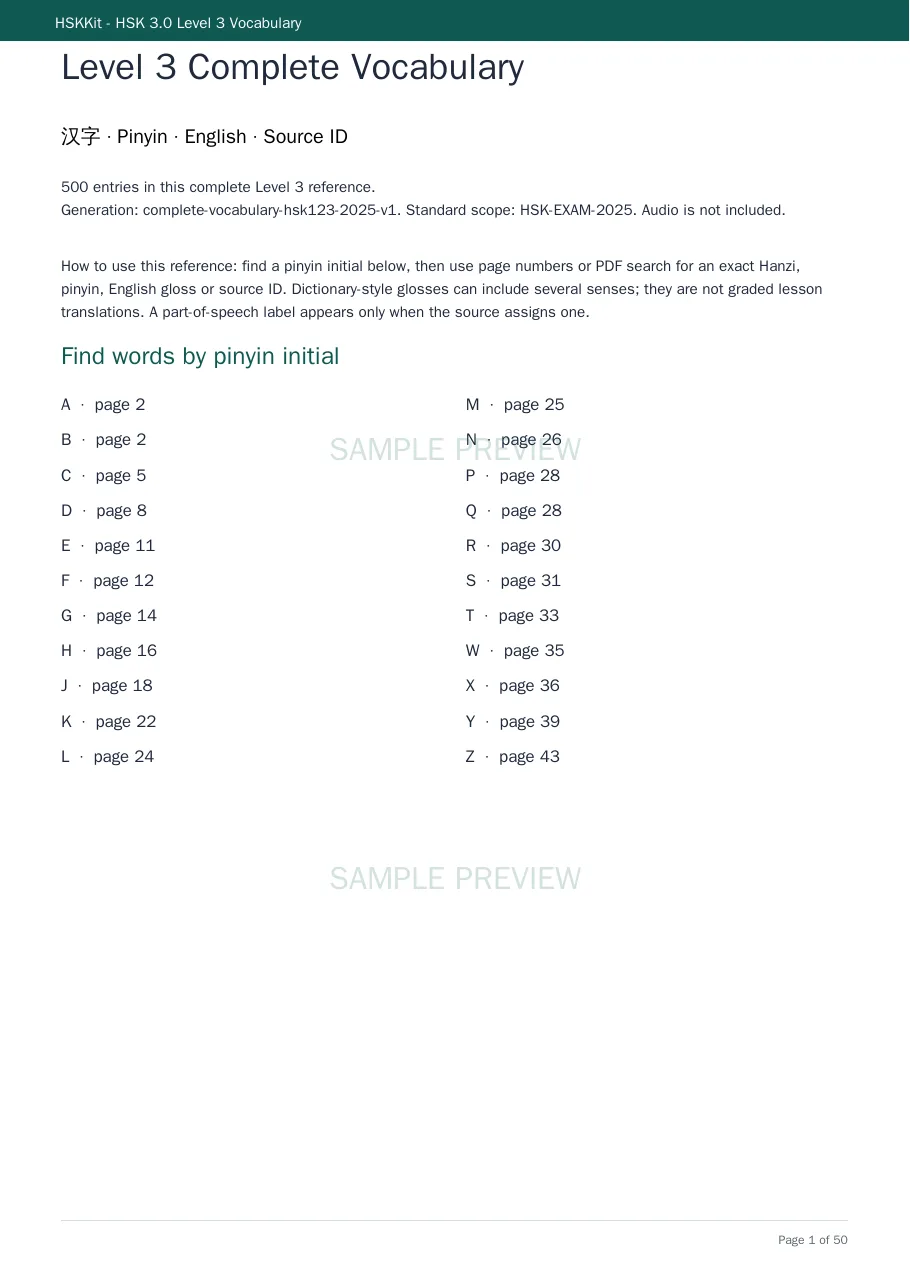
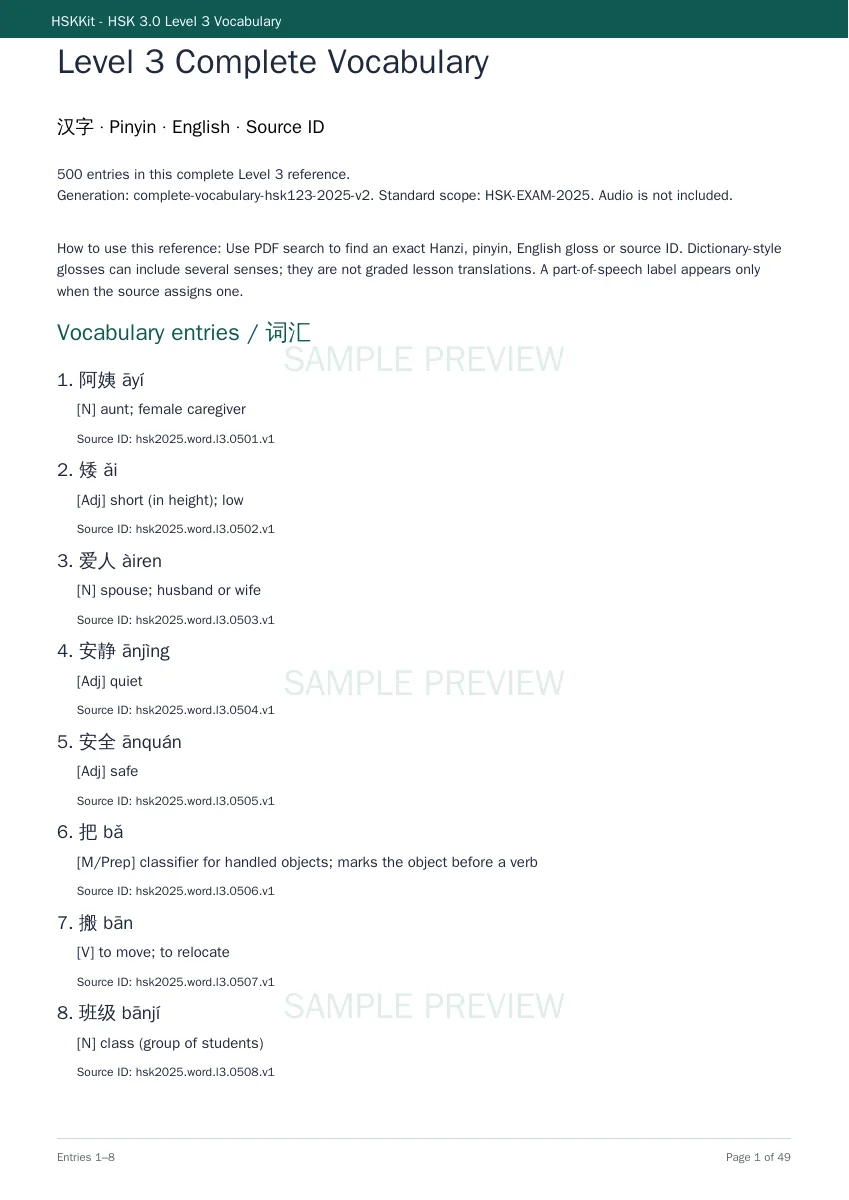
Improve store samples and HSK 1-3 PDF openings

diff --git a/src/lib/commercial/product-details.ts b/src/lib/commercial/product-details.ts
@@ -6,20 +6,20 @@ export type StoreProductDetail=ResourceProductDetail;
 const sample=(src:string,label:string,caption:string)=>({src,alt:`Readable ${label} sample from the actual HSKKit delivery file`,label,caption});
 const vocabularySamples:Partial<Record<DigitalProductId,StoreProductDetail["samplePages"]>>={
   "level-1":[sample("/store/samples/vocabulary/level-1-sample-1.webp","Level 1 opening page","Inspect the real 2025 HSK 1 entry layout, tone-marked pinyin, English meaning and source ID."),sample("/store/samples/vocabulary/level-1-sample-2.webp","Level 1 interior page","Confirm the same readable structure continues through the complete 300-entry file.")],
-  "level-2":[sample("/store/samples/vocabulary/level-2-sample-1.webp","Level 2 opening page","A real rendered page from the complete 200-entry searchable PDF."),sample("/store/samples/vocabulary/level-2-sample-2.webp","Level 2 interior page","Inspect Chinese, pinyin, English and traceable source IDs before checkout.")],
-  "level-3":[sample("/store/samples/vocabulary/level-3-sample-1.webp","Level 3 opening page","A real rendered page from the complete 500-entry searchable PDF."),sample("/store/samples/vocabulary/level-3-sample-2.webp","Level 3 interior page","Confirm readable wrapping and complete entry fields in the actual delivery format.")],
+  "level-2":[sample("/store/samples/vocabulary/level-2-sample-1.webp","Level 2 vocabulary entries","Inspect Hanzi, tone-marked pinyin, English meaning and source IDs in the actual PDF."),sample("/store/samples/vocabulary/level-2-sample-2.webp","Level 2 interior page","Confirm the same readable entry layout continues through the complete 200-entry file.")],
+  "level-3":[sample("/store/samples/vocabulary/level-3-sample-1.webp","Level 3 vocabulary entries","Inspect the actual entries at a readable size before checkout."),sample("/store/samples/vocabulary/level-3-sample-2.webp","Level 3 interior page","Confirm readable wrapping and complete entry fields in the 500-entry PDF.")],
   "level-4":[sample("/store/samples/vocabulary/level-4-sample-1.webp","Level 4 opening page","A real rendered page from the complete 1,000-entry searchable PDF."),sample("/store/samples/vocabulary/level-4-sample-2.webp","Level 4 interior page","Inspect the denser vocabulary layout at a practical reading scale.")],
   "level-5":[sample("/store/samples/vocabulary/level-5-sample-1.webp","Level 5 opening page","A real rendered page from the complete 1,600-entry searchable PDF."),sample("/store/samples/vocabulary/level-5-sample-2.webp","Level 5 interior page","Confirm long English meanings wrap on word boundaries without clipping.")],
   "level-6":[sample("/store/samples/vocabulary/level-6-sample-1.webp","Level 6 opening page","A real rendered page from the complete 1,800-entry searchable PDF."),sample("/store/samples/vocabulary/level-6-sample-2.webp","Level 6 interior page","Inspect the actual Chinese, pinyin, English and source-ID presentation.")],
   "starter-1-3":[sample("/store/samples/vocabulary/starter-1-3-sample-1.webp","Level 1 component","The Bundle includes the complete Level 1 PDF, not a shortened sample list."),sample("/store/samples/vocabulary/starter-1-3-sample-2.webp","Level 3 component","A real interior page from another complete component PDF in this Bundle.")],
   "progression-4-6":[sample("/store/samples/vocabulary/progression-4-6-sample-1.webp","Level 4 component","The Bundle includes the complete Level 4 PDF with canonical source IDs."),sample("/store/samples/vocabulary/progression-4-6-sample-2.webp","Level 6 component","A real interior page from the complete Level 6 component PDF.")],
-  "advanced-7-9":[sample("/store/samples/vocabulary/advanced-7-9-sample-1.webp","Advanced index opening","The Advanced 7–9 vocabulary is represented as one unified complete index."),sample("/store/samples/vocabulary/advanced-7-9-sample-2.webp","Advanced index interior","A real interior page from the 5,600-entry 2025 exam-syllabus index; reading volumes are only usability divisions.")],
+  "advanced-7-9":[sample("/store/samples/vocabulary/advanced-7-9-sample-2.webp","Advanced vocabulary entries","Inspect a real interior page from the 5,600-entry unified Advanced 7–9 index."),sample("/store/samples/vocabulary/advanced-7-9-sample-1.webp","Advanced index guide","The PDF also includes a pinyin-initial index for finding entries.")],
   "complete-1-9":[sample("/store/samples/vocabulary/complete-1-9-sample-1.webp","Level 1 component","The complete library starts with the full Level 1 PDF."),sample("/store/samples/vocabulary/complete-1-9-sample-2.webp","Advanced component","The same purchase includes the full unified Advanced 7–9 index and reading volumes.")],
 };
 
 const bundleSamples:Record<"learner-practice-toolkit"|"exam-preparation-bundle",StoreProductDetail["samplePages"]>={
-  "learner-practice-toolkit":[sample("/store/samples/worksheet-pack/start-here.webp","Worksheet Start Here guide","See how the student workbook, answer key and progress checklist fit together."),sample("/store/samples/assessment-tracker/dated-retests.webp","Assessment Tracker dated retests","See the real log used to record a first attempt and later retests."),sample("/store/samples/30-day-planner/day-8-routes.webp","Planner daily routes","Inspect the distinct 20, 30 and 45-minute routes included in the Planner component.")],
-  "exam-preparation-bundle":[sample("/store/samples/practice-assessment-pack/timed-instructions.webp","Assessment instructions","See the level and form selection, page map and short-diagnostic limits."),sample("/store/samples/practice-assessment-pack/reading-section.webp","Assessment reading questions","Inspect real questions from the Practice Assessment Pack."),sample("/store/samples/worksheet-pack/level-4-student-reading.webp","Worksheet student page","See a printable Level 4 practice page from the Worksheet Pack."),sample("/store/samples/30-day-planner/assessment-mapping.webp","Planner assessment mapping","See how the Planner turns a measured weak skill into the next practice assignment.")],
+  "learner-practice-toolkit":[sample("/store/samples/worksheet-pack/level-1-student-meaning-match.webp","Worksheet student page","Inspect a real beginner exercise and its writing space."),sample("/store/samples/assessment-tracker/dated-retests.webp","Assessment Tracker dated retests","See the real log used to record a first attempt and later retests."),sample("/store/samples/30-day-planner/day-8-routes.webp","Planner daily routes","Inspect the distinct 20, 30 and 45-minute routes included in the Planner component."),sample("/store/samples/worksheet-pack/start-here.webp","Worksheet Start Here guide","See how the student workbook, answer key and progress checklist fit together.")],
+  "exam-preparation-bundle":[sample("/store/samples/practice-assessment-pack/reading-section.webp","Assessment reading questions","Inspect real questions from the Practice Assessment Pack."),sample("/store/samples/worksheet-pack/level-4-student-reading.webp","Worksheet student page","See a printable Level 4 practice page from the Worksheet Pack."),sample("/store/samples/30-day-planner/assessment-mapping.webp","Planner assessment mapping","See how the Planner turns a measured weak skill into the next practice assignment."),sample("/store/samples/practice-assessment-pack/timed-instructions.webp","Assessment instructions","See the level and form selection, page map and short-diagnostic limits.")],
 };
 
 function vocabularyDetail(product:DigitalProduct):StoreProductDetail{
@@ -32,7 +32,7 @@ function vocabularyDetail(product:DigitalProduct):StoreProductDetail{
     summary:product.description,audience:["Independent learners building an offline reference","Tutors who need a searchable, printable vocabulary source","Learners who want canonical source IDs and traceability"],
     outcomes:["Search Chinese, tone-marked pinyin and English meanings in one consistent layout","Keep every canonical source ID for verification and updates",isBundle?"Use complete component PDFs separately or keep the verified offline ZIP":"Print or annotate one complete level without relying on a bounded app preview"],
     inside:productDeliverableLabels(product.id),formats:isBundle?["Searchable component PDFs","Offline ZIP","manifest.json, README, licence and checksums"]:["One searchable PDF","Source and licence appendix inside the PDF","14-day private access with 3 successful downloads"],fileTypes:isBundle?["PDF","ZIP"]:["PDF"],
-    howToUse:["Open the readable samples and confirm the entry structure suits your study workflow.","Use the pinyin-initial index or PDF search to find Hanzi, pinyin, English glosses and source IDs.",isBundle?"Use the separate complete catalogs or the ZIP; Advanced reading volumes repeat entries from the complete Advanced index for easier navigation.":"Read the source and licence notes at the end of the PDF."],
+    howToUse:["Open the readable samples and confirm the entry structure suits your study workflow.","Search the PDF text for Hanzi, pinyin, English glosses and source IDs; longer catalogs also include a pinyin-initial index.",isBundle?"Use the separate complete catalogs or the ZIP; Advanced reading volumes repeat entries from the complete Advanced index for easier navigation.":"Read the source and licence notes at the end of the PDF."],
     previewImage:`/store/previews/vocabulary/${product.id}.webp`,previewAlt:`Cropped, watermarked view of an actual ${product.name} PDF page`,previewPages:[],samplePages:samples,
     fit:{idealFor:["You need the complete stated vocabulary count","You value searchable PDFs and source traceability","You want an offline reference with dictionary-style glosses"],notFor:["You need official separate Level 7, 8 and 9 word lists", "You need audio lessons, graded examples or a full course","You intend to resell HSKKit-branded products"],facts:[`${product.vocabularyCount?.toLocaleString("en-US")} distinct source entries`,"Unlimited printing for personal study or learners you teach; source licences remain in force","14-day access · 3 successful downloads per delivery"]},
     faqs:[{question:"Is this the complete dataset?",answer:`Yes. The delivery contract requires exactly ${product.vocabularyCount?.toLocaleString("en-US")} distinct source IDs and rejects preview-index subsets.`},{question:"Are Advanced Levels 7, 8 and 9 separate lists?",answer:"No. HSK 3.0 defines one unified Advanced 7–9 vocabulary band. Any reading volumes are HSKKit usability divisions, not official separate level lists."},{question:"Can I print or reuse the files?",answer:productLicenseNotice(product.id)}]};

diff --git a/src/lib/commercial/generator.ts b/src/lib/commercial/generator.ts
@@ -68,11 +68,19 @@ export async function generatePackPdf(selection: PackSelection, manifest: PackMa
   cover.drawText("汉字 · Pinyin · English · Source ID", { x: 40, y, size: 13, font }); y -= 32;
   const entryStatement=isVolume?`This reading volume repeats ${selection.words.length} of ${options.totalAdvancedCount} entries from the complete Advanced 7–9 index; numbering is continuous across the three volumes.`:`${selection.words.length} entries in this complete ${selection.level>=7?"unified Advanced 7–9 band":`Level ${selection.level}`} reference.`;
   y=drawWrapped(cover,`${entryStatement}\nGeneration: ${manifest.generationVersion}. Standard scope: ${manifest.standardVersion}. Audio is not included.`,font,10,40,y,515,15)-22;
-  y=drawWrapped(cover,`How to use this reference: find a pinyin initial below, then use page numbers or PDF search for an exact Hanzi, pinyin, English gloss or source ID. Dictionary-style glosses can include several senses; they are not graded lesson translations. A part-of-speech label appears only when the source assigns one.${is2025ExamLevel?"":" A vertical bar separates alternative headwords and matching pronunciations."}`,font,10,40,y,515,15)-16;
+  const compactOpening=is2025ExamLevel&&selection.level<=3&&!isVolume;
+  const findingTip=compactOpening?"Use PDF search to find an exact Hanzi, pinyin, English gloss or source ID.":"Find a pinyin initial below, then use page numbers or PDF search for an exact Hanzi, pinyin, English gloss or source ID.";
+  y=drawWrapped(cover,`How to use this reference: ${findingTip} Dictionary-style glosses can include several senses; they are not graded lesson translations. A part-of-speech label appears only when the source assigns one.${is2025ExamLevel?"":" A vertical bar separates alternative headwords and matching pronunciations."}`,font,10,40,y,515,15)-16;
   if(selection.level>=7)y=drawWrapped(cover,"Advanced 7–9 is one unified vocabulary band. The reading volumes are HSKKit usability divisions, not official separate Level 7, 8 and 9 lists.",font,10,40,y,515,15)-16;
-  cover.drawText("Find words by pinyin initial",{x:40,y,size:16,font,color:rgb(0.06,0.35,0.32)});
-  const indexTop=y-30;
-  page=pdf.addPage(pageSize);y=790;addHeader(page);
+  let indexTop=0;
+  if(compactOpening){
+    cover.drawText("Vocabulary entries / 词汇",{x:40,y,size:16,font,color:rgb(0.06,0.35,0.32)});
+    y-=32;
+  }else{
+    cover.drawText("Find words by pinyin initial",{x:40,y,size:16,font,color:rgb(0.06,0.35,0.32)});
+    indexTop=y-30;
+    page=pdf.addPage(pageSize);y=790;addHeader(page);
+  }
   const initialPages=new Map<string,number>();
   const pageRanges=new Map<number,{first:number;last:number}>();
   for (const [index, word] of selection.words.entries()) {
@@ -113,11 +121,13 @@ export async function generatePackPdf(selection: PackSelection, manifest: PackMa
     ensure(130);page.drawText("MIT source notice",{x:40,y,size:12,font,color:rgb(0.06,0.35,0.32)});y-=20;
     for(const paragraph of HSK30_MIT_NOTICE.split("\n")){ensure(65);y=drawWrapped(page,paragraph,font,8,40,y,515,11)-2;}
   }
-  const initials=[...initialPages.entries()].sort(([a],[b])=>a.localeCompare(b));
-  for(const [index,[letter,pageNumber]] of initials.entries()){
-    const column=index>=Math.ceil(initials.length/2)?1:0;
-    const row=column?index-Math.ceil(initials.length/2):index;
-    cover.drawText(`${letter}  ·  page ${pageNumber}`,{x:40+column*265,y:indexTop-row*23,size:11,font,color:rgb(0.12,0.16,0.24)});
+  if(!compactOpening){
+    const initials=[...initialPages.entries()].sort(([a],[b])=>a.localeCompare(b));
+    for(const [index,[letter,pageNumber]] of initials.entries()){
+      const column=index>=Math.ceil(initials.length/2)?1:0;
+      const row=column?index-Math.ceil(initials.length/2):index;
+      cover.drawText(`${letter}  ·  page ${pageNumber}`,{x:40+column*265,y:indexTop-row*23,size:11,font,color:rgb(0.12,0.16,0.24)});
+    }
   }
   const totalPages=pdf.getPageCount();
   for(const [index,target] of pdf.getPages().entries()){

diff --git a/src/lib/commercial/products.ts b/src/lib/commercial/products.ts
@@ -4,11 +4,12 @@ export const DIGITAL_REFUND_DAYS=7;
 export const DIGITAL_DOWNLOAD_LIMIT=3;
 export const DEFAULT_PRODUCT_GENERATION_VERSION="complete-vocabulary-v2";
 export const HSK1_VOCABULARY_GENERATION_VERSION="complete-vocabulary-hsk1-2025-v3";
-export const HSK123_VOCABULARY_GENERATION_VERSION="complete-vocabulary-hsk123-2025-v1";
+export const HSK123_VOCABULARY_GENERATION_VERSION="complete-vocabulary-hsk123-2025-v2";
 export const HSK1234_VOCABULARY_GENERATION_VERSION="complete-vocabulary-hsk1234-2025-v1";
 export const HSK12345_VOCABULARY_GENERATION_VERSION="complete-vocabulary-hsk12345-2025-v1";
 export const HSK123456_VOCABULARY_GENERATION_VERSION="complete-vocabulary-hsk123456-2025-v1";
 export const HSK123456789_VOCABULARY_GENERATION_VERSION="complete-vocabulary-hsk123456789-2025-v1";
+export const HSK123456789_LIBRARY_LAYOUT_GENERATION_VERSION="complete-vocabulary-hsk123456789-2025-v2";
 export const ASSESSMENT_TRACKER_GENERATION_VERSION="assessment-tracker-2025-v6";
 export const PLANNER_GENERATION_VERSION="planner-guided-v6";
 export const PLANNER_BUNDLE_GENERATION_VERSION="learner-toolkit-tracker-2025-v7";
@@ -57,7 +58,7 @@ export const DIGITAL_PRODUCTS:readonly DigitalProduct[]=[
 
 export function digitalProduct(value:unknown){return DIGITAL_PRODUCTS.find(product=>product.id===value)??null;}
 export function productLicenseNotice(productId:unknown){const product=digitalProduct(productId);return product?.category==="level"||product?.category==="bundle"?VOCABULARY_PRODUCT_LICENSE:productId==="teacher-lesson-plan-pack"?TEACHER_PRODUCT_LICENSE:PURCHASED_PRODUCT_LICENSE;}
-export function generationVersionForProduct(productId:unknown){return productId==="advanced-7-9"||productId==="complete-1-9"?HSK123456789_VOCABULARY_GENERATION_VERSION:productId==="level-6"||productId==="progression-4-6"?HSK123456_VOCABULARY_GENERATION_VERSION:productId==="level-5"?HSK12345_VOCABULARY_GENERATION_VERSION:productId==="level-4"?HSK1234_VOCABULARY_GENERATION_VERSION:productId==="level-1"||productId==="level-2"||productId==="level-3"||productId==="starter-1-3"?HSK123_VOCABULARY_GENERATION_VERSION:productId==="assessment-tracker"?ASSESSMENT_TRACKER_GENERATION_VERSION:productId==="learner-practice-toolkit"?PLANNER_BUNDLE_GENERATION_VERSION:productId==="exam-preparation-bundle"?EXAM_BUNDLE_GENERATION_VERSION:productId==="worksheet-pack"?WORKSHEET_GENERATION_VERSION:productId==="30-day-planner"?PLANNER_GENERATION_VERSION:productId==="practice-assessment-pack"?PRACTICE_ASSESSMENT_GENERATION_VERSION:productId==="teacher-lesson-plan-pack"?TEACHER_PACK_GENERATION_VERSION:DEFAULT_PRODUCT_GENERATION_VERSION;}
+export function generationVersionForProduct(productId:unknown){return productId==="advanced-7-9"?HSK123456789_VOCABULARY_GENERATION_VERSION:productId==="complete-1-9"?HSK123456789_LIBRARY_LAYOUT_GENERATION_VERSION:productId==="level-6"||productId==="progression-4-6"?HSK123456_VOCABULARY_GENERATION_VERSION:productId==="level-5"?HSK12345_VOCABULARY_GENERATION_VERSION:productId==="level-4"?HSK1234_VOCABULARY_GENERATION_VERSION:productId==="level-1"||productId==="level-2"||productId==="level-3"||productId==="starter-1-3"?HSK123_VOCABULARY_GENERATION_VERSION:productId==="assessment-tracker"?ASSESSMENT_TRACKER_GENERATION_VERSION:productId==="learner-practice-toolkit"?PLANNER_BUNDLE_GENERATION_VERSION:productId==="exam-preparation-bundle"?EXAM_BUNDLE_GENERATION_VERSION:productId==="worksheet-pack"?WORKSHEET_GENERATION_VERSION:productId==="30-day-planner"?PLANNER_GENERATION_VERSION:productId==="practice-assessment-pack"?PRACTICE_ASSESSMENT_GENERATION_VERSION:productId==="teacher-lesson-plan-pack"?TEACHER_PACK_GENERATION_VERSION:DEFAULT_PRODUCT_GENERATION_VERSION;}
 export function productDeliverableLabels(productId:unknown):string[]{
   const product=digitalProduct(productId);if(!product)throw new Error("INVALID_PRODUCT");
   if(product.category==="level")return [`${product.vocabularyCount?.toLocaleString("en-US")} entries in one searchable PDF`,`Source and licence notes inside the PDF`];

diff --git a/src/lib/commercial/resource-products.ts b/src/lib/commercial/resource-products.ts
@@ -40,9 +40,18 @@ const rawResourceProductDetails:ResourceProductDetail[]=[
   }
 ];
 
+const firstSampleByProduct:Partial<Record<string,string>>={
+  "worksheet-pack":"level-1-student-meaning-match.webp",
+  "30-day-planner":"day-8-routes.webp",
+  "practice-assessment-pack":"reading-section.webp",
+  "teacher-lesson-plan-pack":"teacher-modelling.webp",
+};
+
 export const resourceProductDetails:ResourceProductDetail[]=rawResourceProductDetails.map(detail=>{
   const product=digitalProduct(detail.id);if(!product)throw new Error(`MISSING_RESOURCE_PRODUCT:${detail.id}`);
-  return {...detail,name:product.name,amountCents:product.amountCents};
+  const firstSample=firstSampleByProduct[detail.id];
+  const samplePages=firstSample?[...detail.samplePages].sort((a,b)=>Number(b.src.endsWith(firstSample))-Number(a.src.endsWith(firstSample))):detail.samplePages;
+  return {...detail,name:product.name,amountCents:product.amountCents,samplePages};
 });
 
 export function resourceProductDetail(id:unknown){return resourceProductDetails.find(product=>product.id===id||product.slug===id)??null;}

diff --git a/scripts/sync-vocabulary-store-samples.py b/scripts/sync-vocabulary-store-samples.py
@@ -1,0 +1,73 @@
+#!/usr/bin/env python3
+"""Render two watermarked store samples from verified delivery PDFs."""
+from __future__ import annotations
+
+import argparse
+import hashlib
+import json
+from pathlib import Path
+import runpy
+import subprocess
+import tempfile
+
+from PIL import Image
+
+
+ROOT = Path(__file__).resolve().parents[1]
+WATERMARK = runpy.run_path(str(ROOT / "scripts/generate-store-samples.py"))["watermark"]
+SAMPLE_DIR = ROOT / "public/store/samples/vocabulary"
+PREVIEW_DIR = ROOT / "public/store/previews/vocabulary"
+SOURCES_FILE = ROOT / "src/lib/commercial/store-sample-sources.json"
+
+
+def render(pdf: Path, page: int) -> Image.Image:
+    with tempfile.TemporaryDirectory() as temporary:
+        output = Path(temporary) / "page"
+        subprocess.run(
+            ["pdftoppm", "-f", str(page), "-l", str(page), "-scale-to", "1200",
+             "-singlefile", "-png", str(pdf), str(output)],
+            check=True, capture_output=True,
+        )
+        image_path = output.with_suffix(".png")
+        if not image_path.exists():
+            raise ValueError(f"{pdf} has no page {page}")
+        return Image.open(image_path).convert("RGB")
+
+
+def verify(pdf: Path, version: str) -> str:
+    manifest = pdf.with_suffix(".manifest.json")
+    actual = json.loads(manifest.read_text(encoding="utf-8"))["generationVersion"]
+    if actual != version:
+        raise ValueError(f"{pdf}: expected {version}, found {actual}")
+    return hashlib.sha256(pdf.read_bytes()).hexdigest()
+
+
+def main() -> None:
+    parser = argparse.ArgumentParser()
+    parser.add_argument("product_id")
+    parser.add_argument("version")
+    parser.add_argument("first_pdf", type=Path)
+    parser.add_argument("first_page", type=int)
+    parser.add_argument("second_pdf", type=Path)
+    parser.add_argument("second_page", type=int)
+    parser.add_argument("--card-from", type=int, choices=[1, 2], default=1)
+    args = parser.parse_args()
+    SAMPLE_DIR.mkdir(parents=True, exist_ok=True)
+    PREVIEW_DIR.mkdir(parents=True, exist_ok=True)
+    sources = json.loads(SOURCES_FILE.read_text(encoding="utf-8")) if SOURCES_FILE.exists() else {}
+    samples = []
+    for index, (pdf, page) in enumerate(((args.first_pdf, args.first_page), (args.second_pdf, args.second_page)), 1):
+        sha = verify(pdf, args.version)
+        filename = f"{args.product_id}-sample-{index}.webp"
+        WATERMARK(render(pdf, page)).save(SAMPLE_DIR / filename, "WEBP", quality=84, method=6)
+        samples.append({"file": filename, "page": page, "sourcePdfSha256": sha})
+    sample_image = Image.open(SAMPLE_DIR / samples[args.card_from - 1]["file"]).convert("RGB")
+    card = sample_image.crop((0, 0, sample_image.width, min(sample_image.height, round(sample_image.width * 0.75))))
+    card.save(PREVIEW_DIR / f"{args.product_id}.webp", "WEBP", quality=86, method=6)
+    sources[args.product_id] = {"generationVersion": args.version, "samples": samples, "cardFrom": args.card_from}
+    SOURCES_FILE.write_text(json.dumps(sources, indent=2, ensure_ascii=False) + "\n", encoding="utf-8")
+    print(f"Rendered {args.product_id} from {args.version}")
+
+
+if __name__ == "__main__":
+    main()
